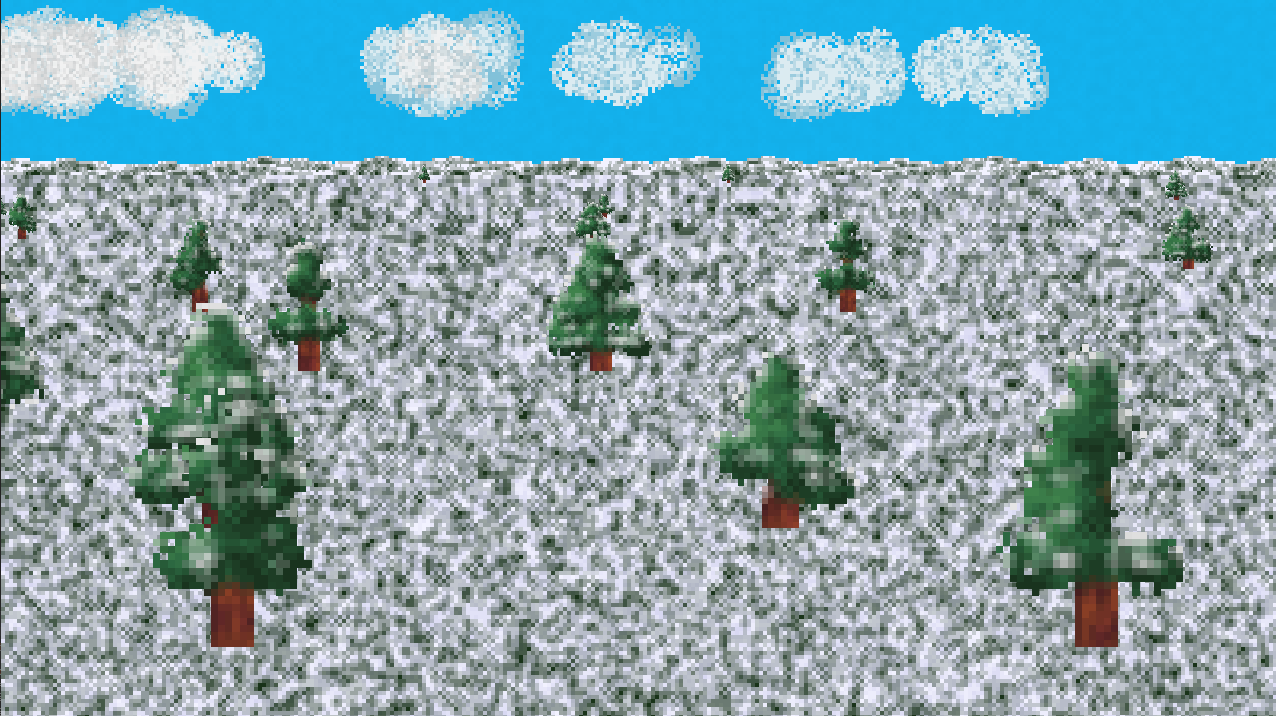
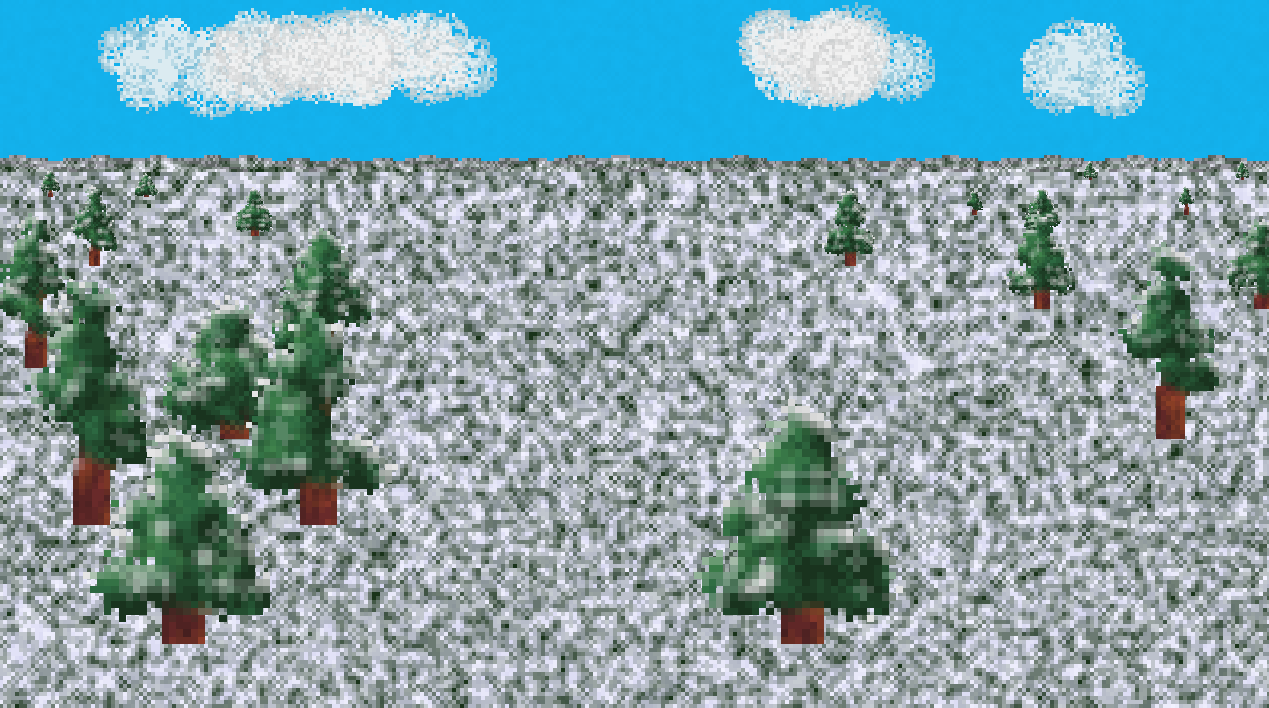
PAG-More tweaks to generation algorithms in response to report

diff --git a/src/PAG_CPP/PAG_CPP/SceneGenerator.cpp b/src/PAG_CPP/PAG_CPP/SceneGenerator.cpp
@@ -60,7 +60,7 @@ namespace godot
 
 		// Ground colors
 		mGroundColors.insert({ BiomeCloud, std::vector<Color*> { new Color(.075, 0.705, 0.940), new Color(.075, 0.685, 0.910) } });
-		mGroundColors.insert({ BiomeMountain, std::vector<Color*> { new Color(0.4, 0.4, 0.5), new Color(0.5, 0.5, 0.6) } });
+		mGroundColors.insert({ BiomeMountain, std::vector<Color*> { new Color(0.25, 0.25, 0.25), new Color(0.4, 0.4, 0.5), new Color(0.5, 0.5, 0.6) } });
 		mGroundColors.insert({ BiomeGrass, std::vector<Color*> { new Color(0.2, 0.6, 0.2), new Color(0.2, 0.5, 0.2) } });
 		mGroundColors.insert({ BiomeBoreal, std::vector<Color*> { new Color(0.1, 0.2, 0.1), new Color(0.2, 0.3, 0.1) } });
 		mGroundColors.insert({ BiomeSand, std::vector<Color*> { new Color(0.8, 0.7, 0.6), new Color(0.95, 0.85, 0.75) } }); 
@@ -301,7 +301,12 @@ namespace godot
 			//assetGen = Object::cast_to<TreeGenerator>(mTreeGenScene->instance());
 			assetGen = Object::cast_to<RockGenerator>(mRockGenScene->instance());
 			assetGen->apply_scale(Vector2(.175, .175));
-			assetGen->addMountain(mCurrentMountainHeight * 1.2, mGroundColors[(mCurrentMountainHeight >= 15 ? BiomeMountain : mBackgroundInitBiome)][0], mGroundColors[(mCurrentMountainHeight >= 15 ? BiomeMountain : mBackgroundInitBiome)][mGroundColors[mBackgroundInitBiome].size() - 1]);
+
+			Color* c1 = mGroundColors[mInitBiome][0];
+			Color* c2 = mGroundColors[mInitBiome][mGroundColors[mInitBiome].size() - 1];
+			Color* c0 = getAvgColor(c1, new Color(0, 0, 0), 0.5);
+
+			assetGen->addMountain(mCurrentMountainHeight, (mCurrentMountainHeight >= 10 ? mGroundColors[BiomeMountain][0] : c0), (mCurrentMountainHeight >= 10 ? mGroundColors[BiomeMountain][1] : c1), (mCurrentMountainHeight >= 15 ? mGroundColors[BiomeMountain][2] : c2));
 
 			newAsset.band = 0;
 			newAsset.bandPos = (mScreenSizePixel.x + 80) / numMountains * j + (mScreenSizePixel.x + 80) / (2 * numMountains) - 40;
@@ -342,7 +347,12 @@ namespace godot
 			//assetGen = Object::cast_to<TreeGenerator>(mTreeGenScene->instance());
 			assetGen = Object::cast_to<RockGenerator>(mRockGenScene->instance());
 			assetGen->apply_scale(Vector2(.175, .175));
-			assetGen->addMountain(mCurrentMountainHeight * 1.2, mGroundColors[(mCurrentMountainHeight >= 15 ? BiomeMountain : mBackgroundInitBiome)][0], mGroundColors[(mCurrentMountainHeight >= 15 ? BiomeMountain : mBackgroundInitBiome)][mGroundColors[mBackgroundInitBiome].size() - 1]);
+
+			Color* c1 = mGroundColors[mInitBiome][0];
+			Color* c2 = mGroundColors[mInitBiome][mGroundColors[mInitBiome].size() - 1];
+			Color* c0 = getAvgColor(c1, new Color(0, 0, 0), 0.5);
+
+			assetGen->addMountain(mCurrentMountainHeight, (mCurrentMountainHeight >= 10 ? mGroundColors[BiomeMountain][0] : c0), (mCurrentMountainHeight >= 10 ? mGroundColors[BiomeMountain][1] : c1), (mCurrentMountainHeight >= 15 ? mGroundColors[BiomeMountain][2] : c2));
 
 			newAsset.band = 1;
 			newAsset.bandPos = (mScreenSizePixel.x + 80) / numMountains * j - 40;
@@ -780,11 +790,12 @@ namespace godot
 
 			mCurrentMountainHeight = int(mBiomeMountainHeights[mBackgroundInitBiome] * ratio + mBiomeMountainHeights[mBackgroundDestBiome] * (1.0 - ratio));
 
-			Color* c0 = getAvgColor(mGroundColors[mInitBiome][0], mGroundColors[mDestBiome][0], ratio);
-			Color* c1 = getAvgColor(mGroundColors[mInitBiome][mGroundColors[mInitBiome].size() - 1], mGroundColors[mDestBiome][mGroundColors[mDestBiome].size() - 1], ratio);
+			Color* c1 = getAvgColor(mGroundColors[mInitBiome][0], mGroundColors[mDestBiome][0], ratio);
+			Color* c2 = getAvgColor(mGroundColors[mInitBiome][mGroundColors[mInitBiome].size() - 1], mGroundColors[mDestBiome][mGroundColors[mDestBiome].size() - 1], ratio);
+			Color* c0 = getAvgColor(c1, new Color(0,0,0), 0.5);
 
 			RockGenerator* rockGen = Object::cast_to<RockGenerator>(mRockGenScene->instance());
-			rockGen->addMountain(mCurrentMountainHeight, (mCurrentMountainHeight >= 15 ? mGroundColors[BiomeMountain][0] : c0), (mCurrentMountainHeight >= 15 ? mGroundColors[BiomeMountain][1] : c1));
+			rockGen->addMountain(mCurrentMountainHeight, (mCurrentMountainHeight >= 10 ? mGroundColors[BiomeMountain][0] : c0), (mCurrentMountainHeight >= 10 ? mGroundColors[BiomeMountain][1] : c1), (mCurrentMountainHeight >= 15 ? mGroundColors[BiomeMountain][2] : c2));
 			assetGen = rockGen;
 		}
 		else if (biomeType == BiomeGrass)

diff --git a/src/PAG_CPP/PAG_CPP/RockGenerator.cpp b/src/PAG_CPP/PAG_CPP/RockGenerator.cpp
@@ -54,7 +54,7 @@ void RockGenerator::setType(RockType rockType)
 	{
 		mDensity = 1.0;
 
-		mColorRamp.push_back(new Color(0.20, 0.20, 0.20));
+		mColorRamp.push_back(new Color(0.25, 0.25, 0.25));
 		mColorRamp.push_back(new Color(0.30, 0.30, 0.30));
 		mColorRamp.push_back(new Color(0.40, 0.40, 0.40));
 		mColorRamp.push_back(new Color(0.45, 0.45, 0.45));
@@ -240,18 +240,18 @@ void RockGenerator::buildRock()
 	}
 	else if (mRockType == RockTypeCloud)
 	{
-		for (int i = 0; i < 12; i++)
-		{
-			int x = rand() % 30 + 15;
-			int y = rand() % 15 + 30;
+	for (int i = 0; i < 12; i++)
+	{
+		int x = rand() % 30 + 15;
+		int y = rand() % 15 + 30;
 
-			sprayPixel(Vector2(x, y), rand() % 6 + 6, 0.75, mColorRamp[1], false);
-			sprayPixel(Vector2(x, y), rand() % 6 + 6, 0.5, nullptr, true);
-			sprayPixel(Vector2(x, y), rand() % 6 + 6, 0.5, nullptr, true);
-			sprayPixel(Vector2(x, y), rand() % 6 + 6, 0.5, nullptr, true);
-			sprayPixel(Vector2(x, y), rand() % 6 + 6, 0.5, nullptr, true);
+		sprayPixel(Vector2(x, y), rand() % 6 + 6, 0.75, mColorRamp[1], false);
+		sprayPixel(Vector2(x, y), rand() % 6 + 6, 0.5, nullptr, true);
+		sprayPixel(Vector2(x, y), rand() % 6 + 6, 0.5, nullptr, true);
+		sprayPixel(Vector2(x, y), rand() % 6 + 6, 0.5, nullptr, true);
+		sprayPixel(Vector2(x, y), rand() % 6 + 6, 0.5, nullptr, true);
 
-		}
+	}
 
 
 		if (mBlur)

diff --git a/src/PAG_CPP/PAG_CPP/AssetGenerator.cpp b/src/PAG_CPP/PAG_CPP/AssetGenerator.cpp
@@ -422,7 +422,7 @@ void AssetGenerator::addSmile()
 	rotatePixelArray();
 }
 
-void AssetGenerator::addMountain(int height, Color* color1, Color* color2)
+void AssetGenerator::addMountain(int height, Color* color0, Color* color1, Color* color2)
 {
 
 	resetPixelArray();
@@ -502,7 +502,7 @@ void AssetGenerator::addMountain(int height, Color* color1, Color* color2)
 
 	for (int i = 1; i < peaksSorted.size(); i++)
 	{
-		addLine(peaksSorted[i - 1], peaksSorted[i], color1);
+		addLine(peaksSorted[i - 1], peaksSorted[i], color0);
 	}
 
 
@@ -511,7 +511,7 @@ void AssetGenerator::addMountain(int height, Color* color1, Color* color2)
 
 	if (mPixelArray[0][0] != nullptr)
 	{
-		addMountain(height, color1, color2);
+		addMountain(height, color0, color1, color2);
 		return;
 	}
 

diff --git a/src/PAG_CPP/PAG_CPP/Main.cpp b/src/PAG_CPP/PAG_CPP/Main.cpp
@@ -73,14 +73,14 @@ void Main::_init()
 	//	{
 	//		RockGenerator* rockGen = Object::cast_to<RockGenerator>(rockGenScene->instance());
 	//		
-	//		//if (j == 0)
+	//		//if (i%3 == 0)
 	//		//	rockGen->setType(RockGenerator::RockTypeGraphite);
-	//		//else if (j == 1)
+	//		//else if (i % 3 == 1)
 	//		//	rockGen->setType(RockGenerator::RockTypeBush);
-	//		//else if (j == 2)
+	//		//else if (i % 3 == 2)
 	//		//	rockGen->setType(RockGenerator::RockTypeCloud);
 
-	//		rockGen->addMountain(20, new Color(0.4, 0.4, 0.5), new Color(0.5, 0.5, 0.6));
+	//		rockGen->addMountain(20, new Color(0.25, 0.25, 0.25), new Color(0.4, 0.4, 0.5), new Color(0.5, 0.5, 0.6));
 
 
 	//		rockGen->apply_scale(Vector2(0.2, 0.2));

diff --git a/src/PAG_CPP/PAG_CPP/AssetGenerator.h b/src/PAG_CPP/PAG_CPP/AssetGenerator.h
@@ -49,7 +49,7 @@ namespace godot
 
 		// Debug Pixel Array Functions
 		void addSmile();
-		void addMountain(int height, Color* color1, Color* color2);
+		void addMountain(int height, Color* color0, Color* color1, Color* color2);
 
 		// Accessors / Processors
 		inline void setColorRamp(std::vector<Color*> newRamp) { mColorRamp = newRamp; }
